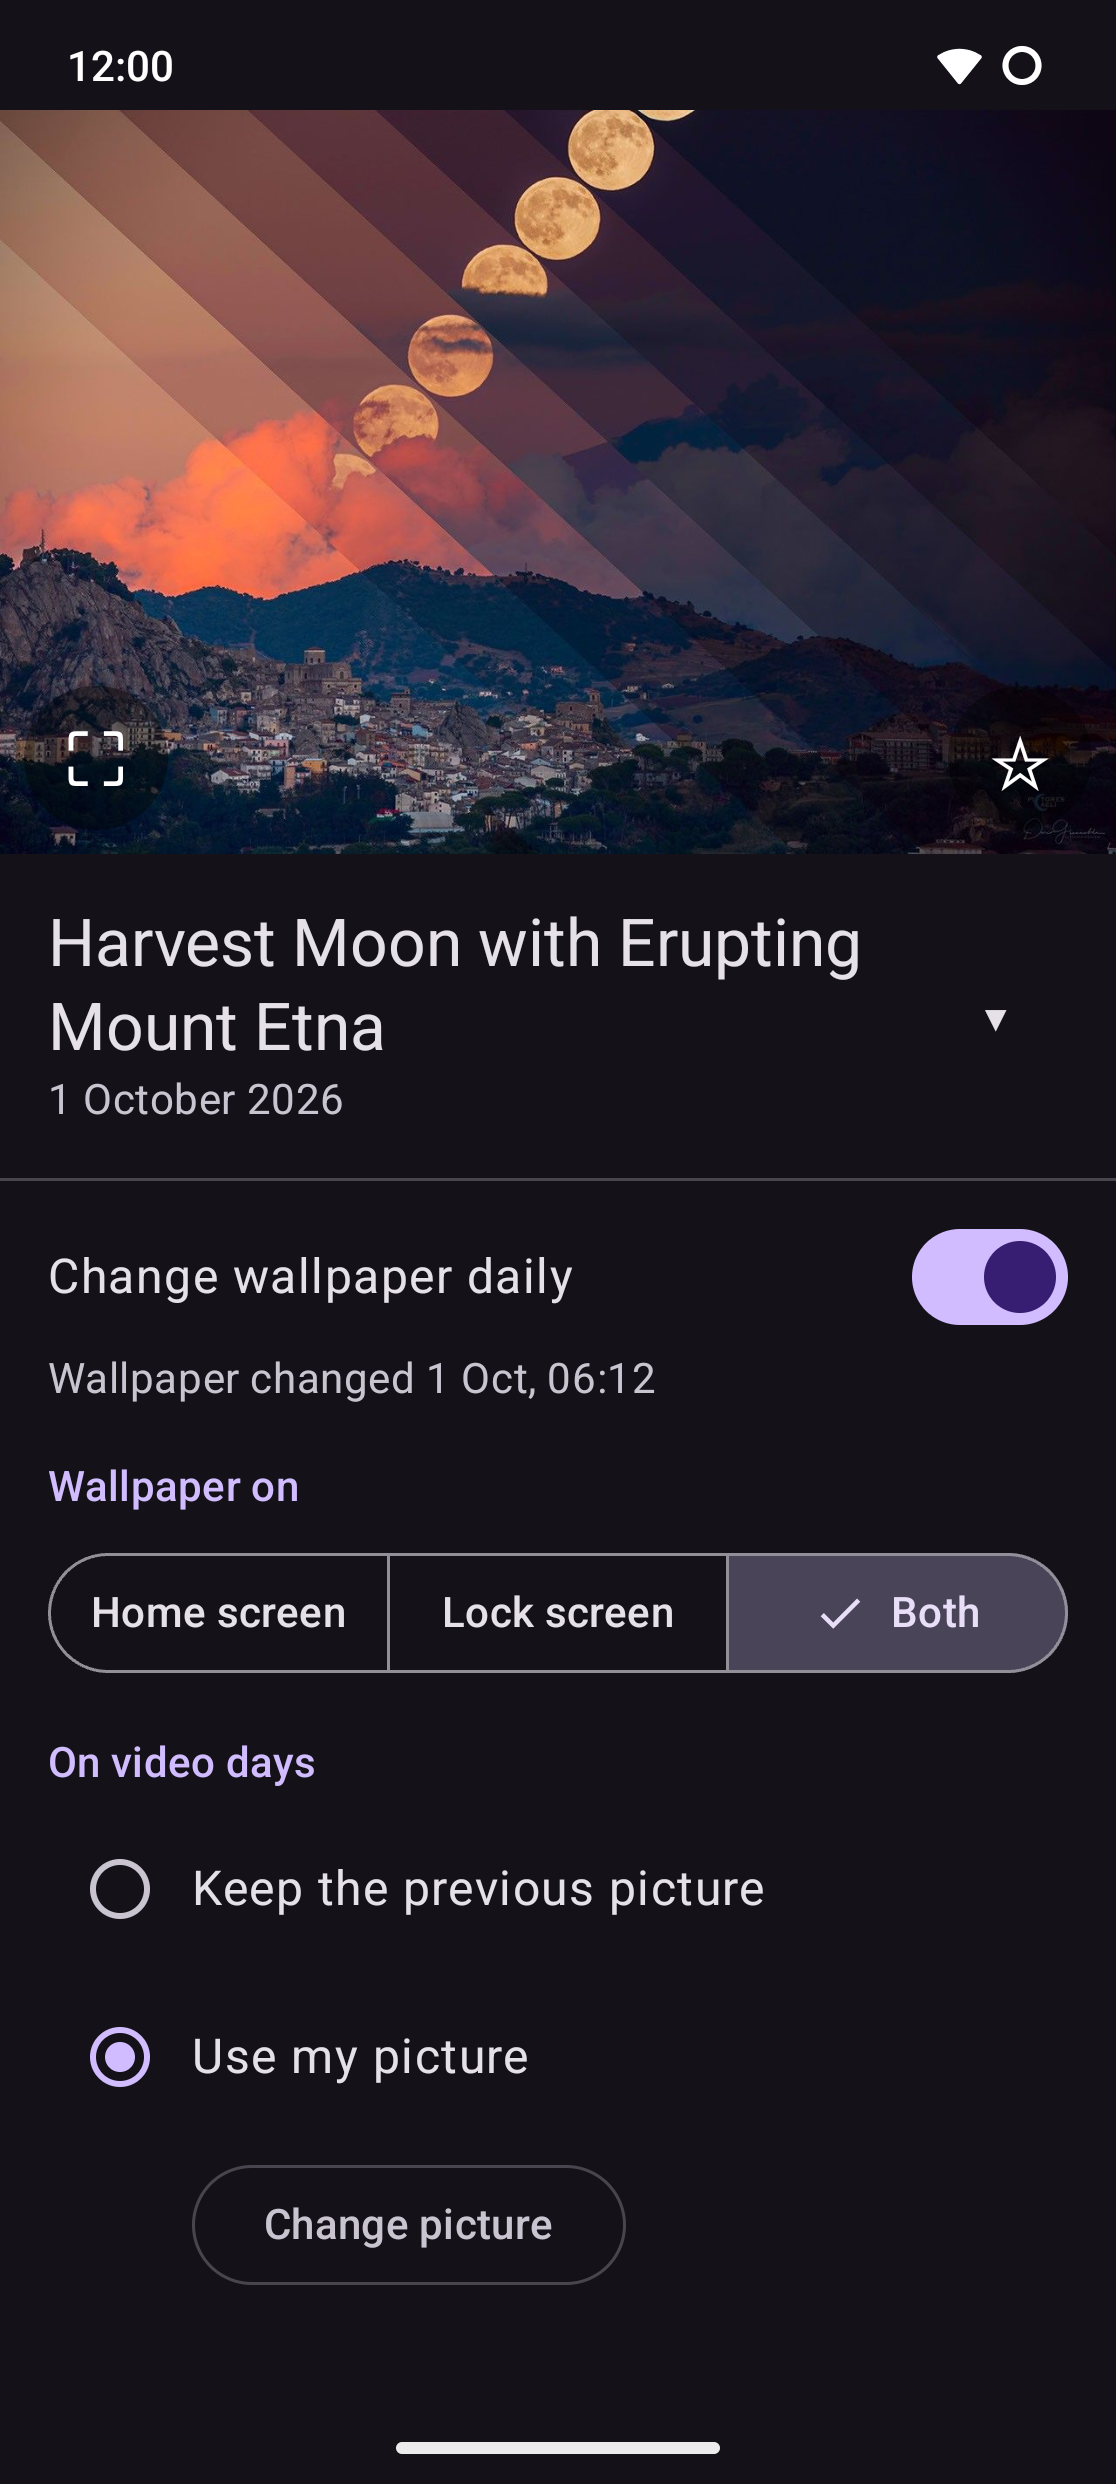
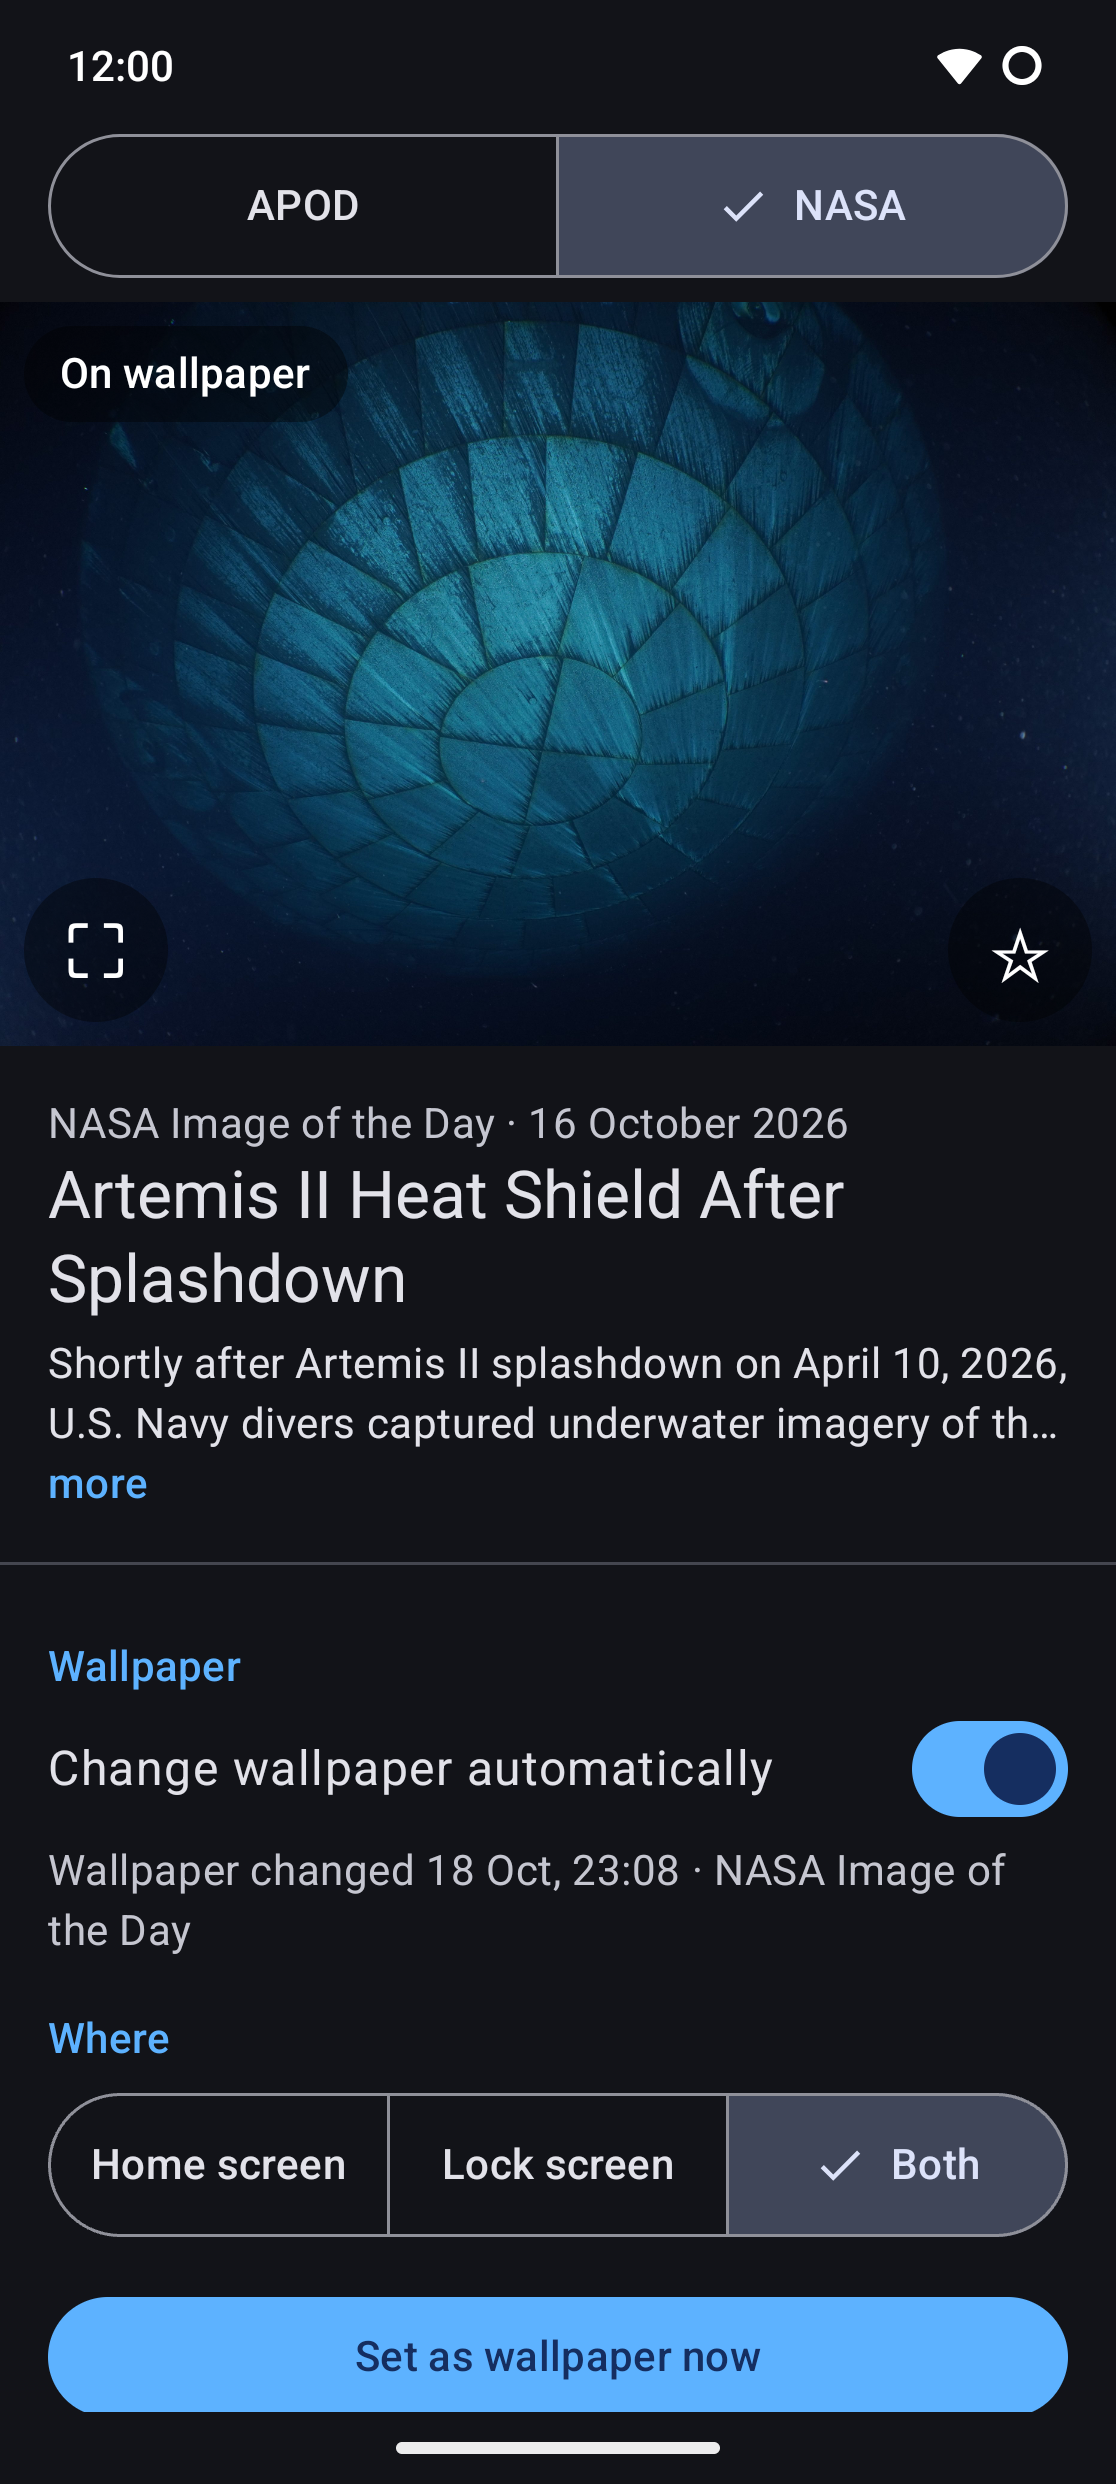
New screenshot for 0.5.0; note the video-tile idea

diff --git a/CLAUDE.md b/CLAUDE.md
@@ -535,3 +535,13 @@ The app). Sharper wallpaper is in 0.5.0; the rest moved to 0.6.0 (user, 2026-10-
    ends the run too (WP8b, 2026-10-18, found by reading: `Thread.interrupted()` clears the
    flag, so `downloadPicture` fell through to the plain 1280 px picture, downloaded it whole and
    set it). An HTTP `Range` resume would keep it; left.
+2. A picture instead of the black ▶ tile on video days (user, 2026-10-18: a black tile isn't
+   nice; the user chose "note it down for future", nothing built). Checked on the 13 video
+   posts in `private/` (24 Jun to 16 Oct 2026): 11 are NASA's own `<video>` with an mp4 on
+   `assets.science.nasa.gov` (no `poster`), 2 are YouTube embeds. So a YouTube thumbnail
+   (`img.youtube.com/vi/<id>/hqdefault.jpg`, a new host) covers about 1 in 6; not worth it
+   alone. Idea: `MediaMetadataRetriever` on the mp4 URL (Android, no library, no new host),
+   a frame a few seconds in, shown dimmed behind ▶ on the page only, never the wallpaper,
+   black tile on any failure. The 16 Oct mp4: 25.7 MB, `accept-ranges: bytes`, `moov` at the
+   start (so a few hundred KB should do); untested on the phone, other files' layout unknown.
+   Fallback if it fails: a local tile (star field or logo), no network.
